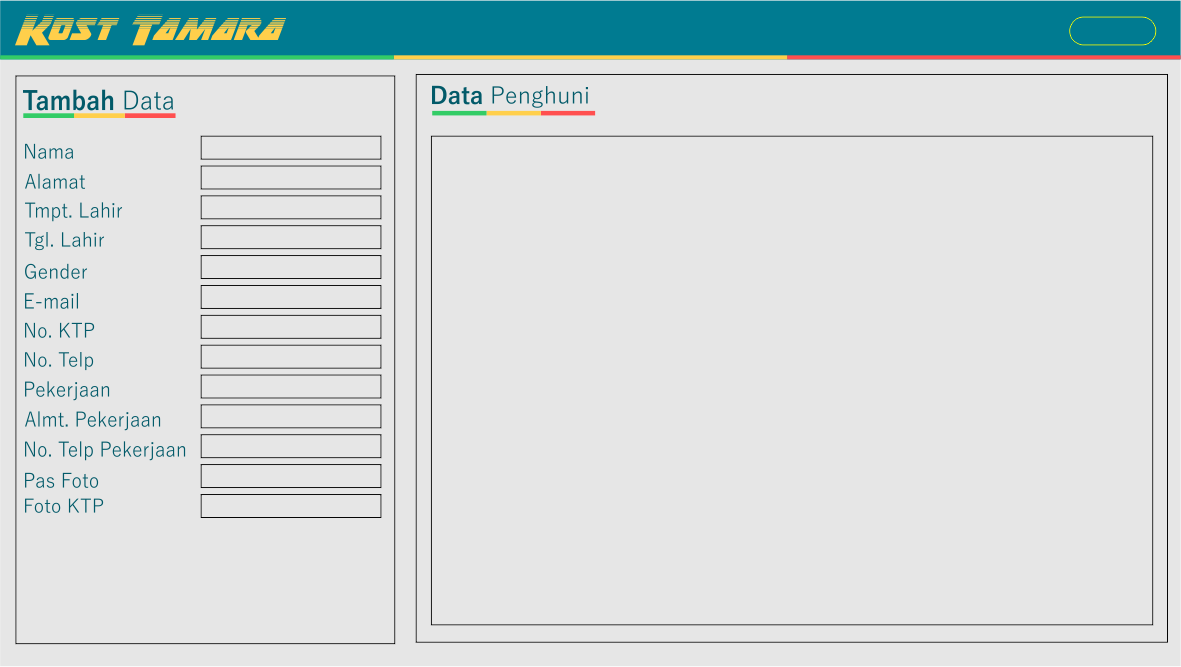
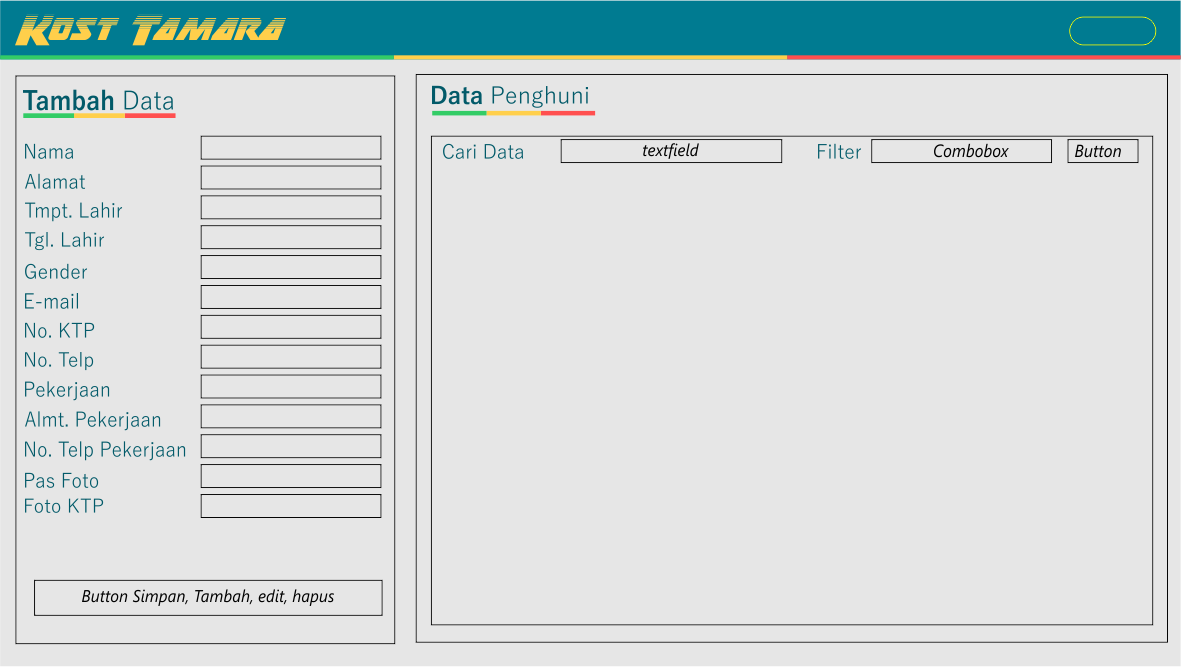
Edit Form Penyewa & Tambah Background Mockup

diff --git a/src/Forms/frm_Penyewa.java b/src/Forms/frm_Penyewa.java
@@ -47,9 +47,13 @@ public class frm_Penyewa extends javax.swing.JFrame {
         jScrollPane1 = new javax.swing.JScrollPane();
         jTable1 = new javax.swing.JTable();
         jPanel1 = new javax.swing.JPanel();
+        jButton7 = new javax.swing.JButton();
         jButton4 = new javax.swing.JButton();
         jButton5 = new javax.swing.JButton();
         jButton6 = new javax.swing.JButton();
+        jTextField10 = new javax.swing.JTextField();
+        jComboBox2 = new javax.swing.JComboBox<>();
+        jButton3 = new javax.swing.JButton();
 
         setDefaultCloseOperation(javax.swing.WindowConstants.DISPOSE_ON_CLOSE);
         setResizable(false);
@@ -117,9 +121,13 @@ public class frm_Penyewa extends javax.swing.JFrame {
         ));
         jScrollPane1.setViewportView(jTable1);
 
-        panel1.add(jScrollPane1, new org.netbeans.lib.awtextra.AbsoluteConstraints(430, 130, 720, 490));
+        panel1.add(jScrollPane1, new org.netbeans.lib.awtextra.AbsoluteConstraints(430, 180, 720, 440));
 
         jPanel1.setLayout(new java.awt.GridLayout(1, 0, 5, 0));
+
+        jButton7.setFont(new java.awt.Font("Tahoma", 0, 14)); // NOI18N
+        jButton7.setText("Simpan");
+        jPanel1.add(jButton7);
 
         jButton4.setFont(new java.awt.Font("Tahoma", 0, 14)); // NOI18N
         jButton4.setText("Tambah");
@@ -133,12 +141,30 @@ public class frm_Penyewa extends javax.swing.JFrame {
         jButton6.setText("Hapus");
         jPanel1.add(jButton6);
 
-        panel1.add(jPanel1, new org.netbeans.lib.awtextra.AbsoluteConstraints(30, 550, 350, 40));
+        panel1.add(jPanel1, new org.netbeans.lib.awtextra.AbsoluteConstraints(34, 573, 350, 40));
+
+        jTextField10.setText("jTextField10");
+        panel1.add(jTextField10, new org.netbeans.lib.awtextra.AbsoluteConstraints(560, 138, 220, -1));
+
+        jComboBox2.setModel(new javax.swing.DefaultComboBoxModel<>(new String[] { "Cari Berdasarkan" }));
+        panel1.add(jComboBox2, new org.netbeans.lib.awtextra.AbsoluteConstraints(870, 138, 180, -1));
+
+        jButton3.setText("Cari");
+        jButton3.addActionListener(new java.awt.event.ActionListener() {
+            public void actionPerformed(java.awt.event.ActionEvent evt) {
+                jButton3ActionPerformed(evt);
+            }
+        });
+        panel1.add(jButton3, new org.netbeans.lib.awtextra.AbsoluteConstraints(1068, 136, 70, -1));
 
         getContentPane().add(panel1, new org.netbeans.lib.awtextra.AbsoluteConstraints(0, 0, 1180, 660));
 
         pack();
     }// </editor-fold>//GEN-END:initComponents
+
+    private void jButton3ActionPerformed(java.awt.event.ActionEvent evt) {//GEN-FIRST:event_jButton3ActionPerformed
+        // TODO add your handling code here:
+    }//GEN-LAST:event_jButton3ActionPerformed
 
     /**
      * @param args the command line arguments
@@ -178,15 +204,19 @@ public class frm_Penyewa extends javax.swing.JFrame {
     // Variables declaration - do not modify//GEN-BEGIN:variables
     private javax.swing.JButton jButton1;
     private javax.swing.JButton jButton2;
+    private javax.swing.JButton jButton3;
     private javax.swing.JButton jButton4;
     private javax.swing.JButton jButton5;
     private javax.swing.JButton jButton6;
+    private javax.swing.JButton jButton7;
     private javax.swing.JComboBox<String> jComboBox1;
+    private javax.swing.JComboBox<String> jComboBox2;
     private com.toedter.calendar.JDateChooser jDateChooser1;
     private javax.swing.JPanel jPanel1;
     private javax.swing.JScrollPane jScrollPane1;
     private javax.swing.JTable jTable1;
     private javax.swing.JTextField jTextField1;
+    private javax.swing.JTextField jTextField10;
     private javax.swing.JTextField jTextField11;
     private javax.swing.JTextField jTextField12;
     private javax.swing.JTextField jTextField2;
